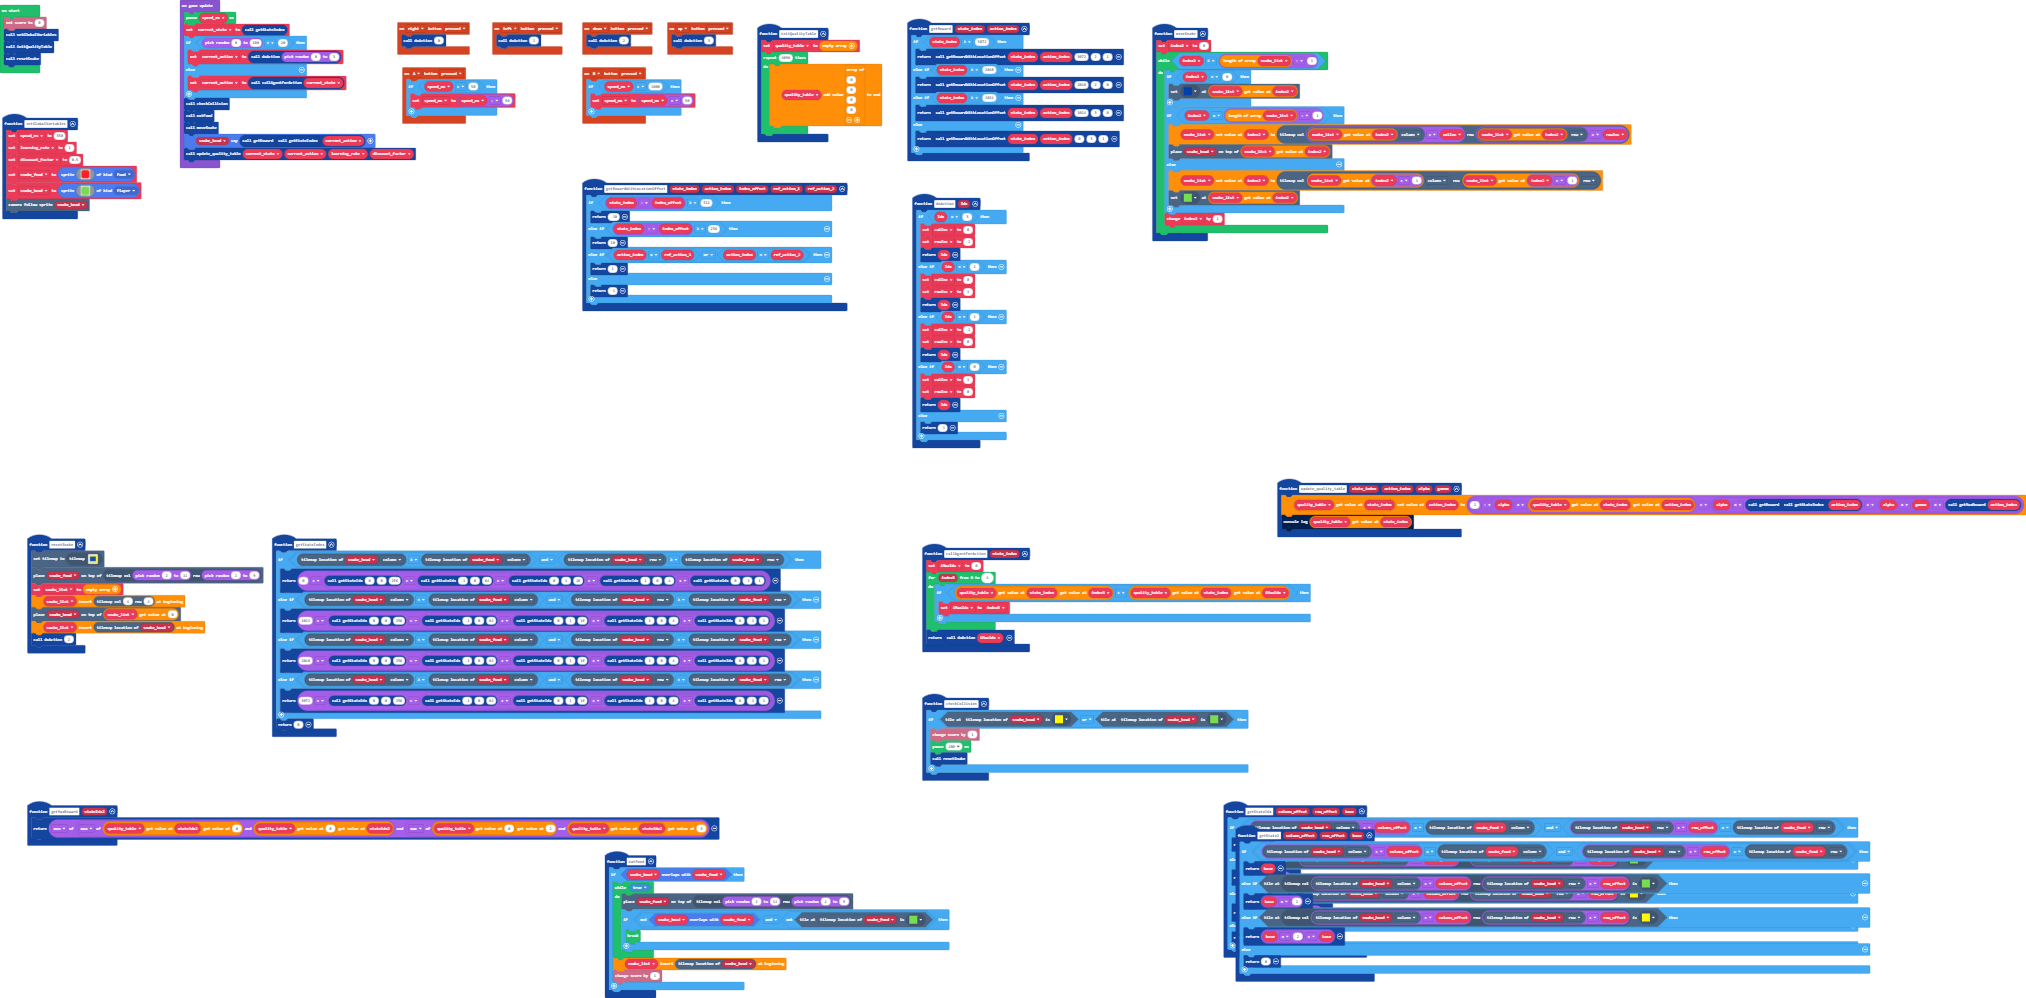
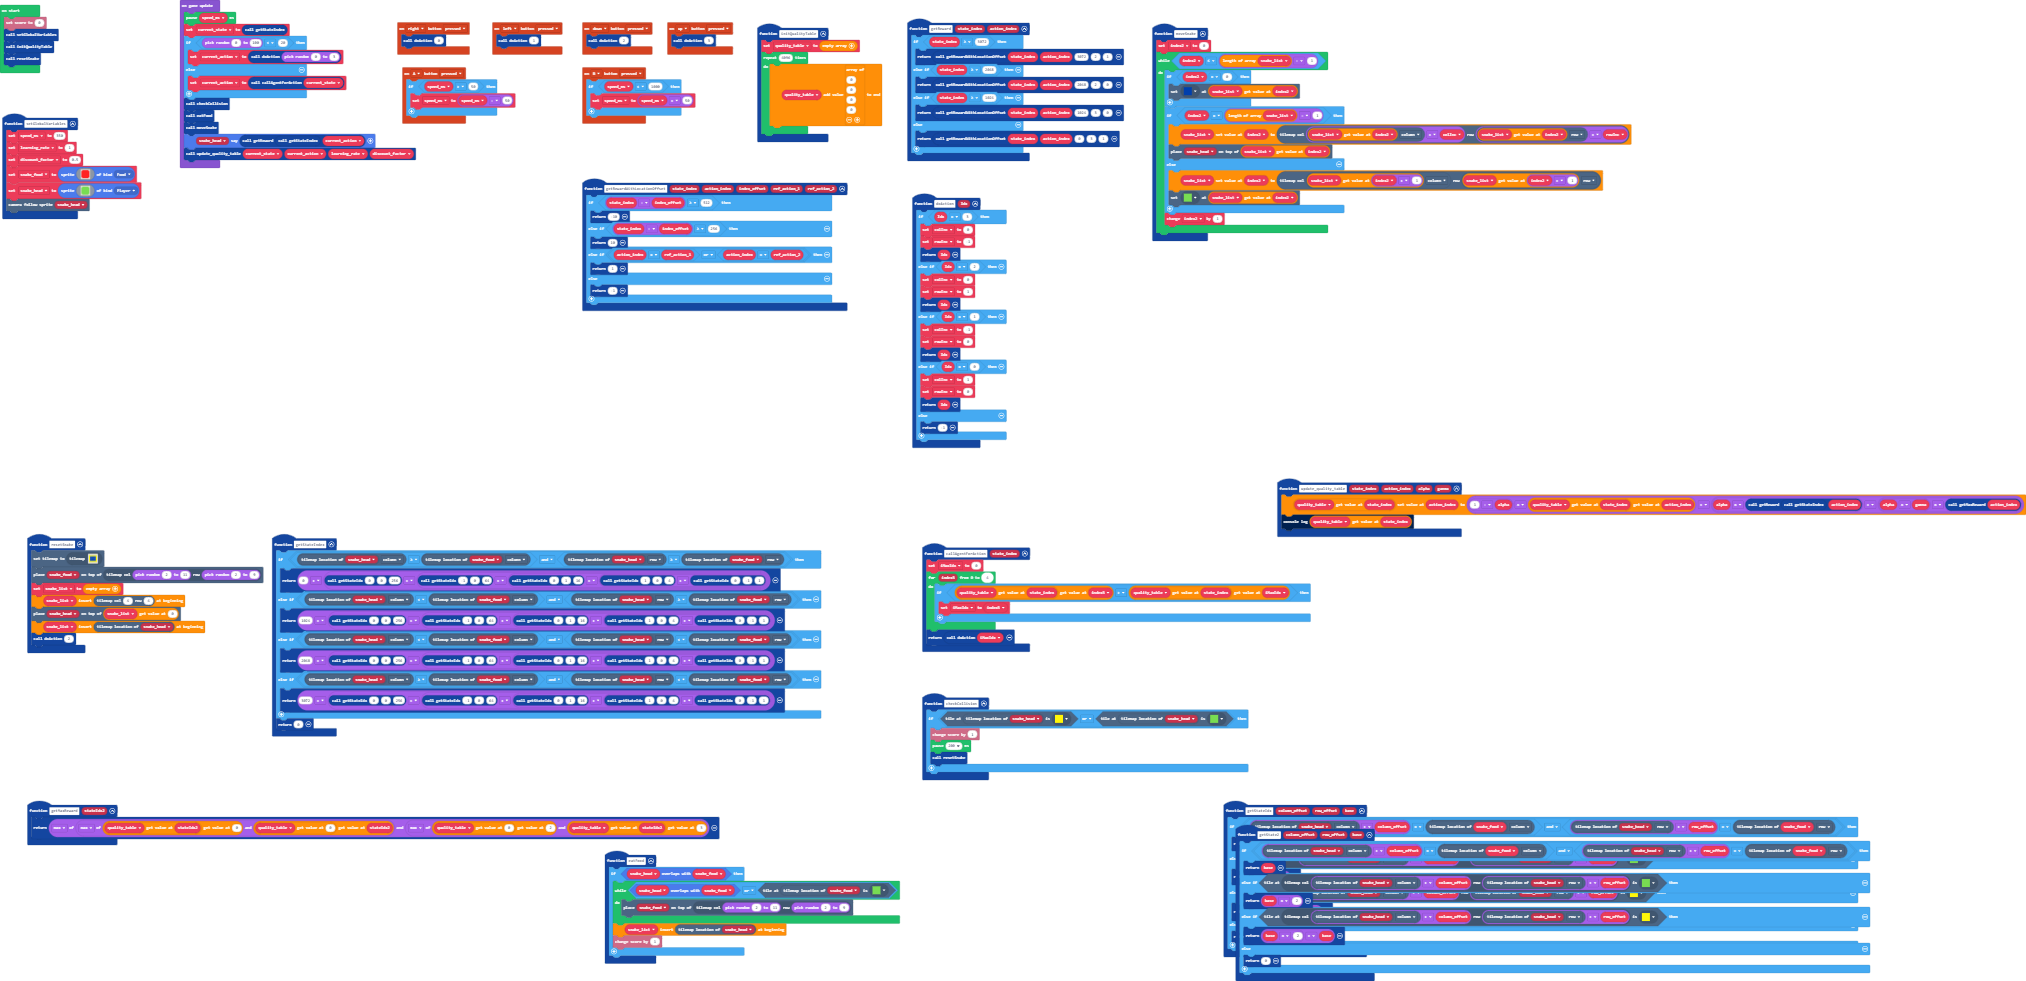
Simplified "eatFood"

diff --git a/main.ts b/main.ts
@@ -91,11 +91,8 @@ function setGlobalVariables () {
 }
 function eatFood () {
     if (snake_head.overlapsWith(snake_food)) {
-        while (true) {
+        while (snake_head.overlapsWith(snake_food) || tiles.tileAtLocationEquals(snake_food.tilemapLocation(), assets.tile`myTile`)) {
             tiles.placeOnTile(snake_food, tiles.getTileLocation(randint(2, 11), randint(2, 9)))
-            if (!(snake_head.overlapsWith(snake_food)) && !(tiles.tileAtLocationEquals(snake_food.tilemapLocation(), assets.tile`myTile`))) {
-                break;
-            }
         }
         snake_list.unshift(snake_head.tilemapLocation())
         info.changeScoreBy(1)

diff --git a/main.py b/main.py
@@ -26,16 +26,6 @@ def on_b_pressed():
         speed_ms = speed_ms + 50
 controller.B.on_event(ControllerButtonEvent.PRESSED, on_b_pressed)
 
-def get_reward(state_index: number, action_index: number):
-    if state_index >= 3072:
-        return get_reward_with_location_offset(state_index, action_index, 3072, 2, 1)
-    elif state_index >= 2048:
-        return get_reward_with_location_offset(state_index, action_index, 2048, 2, 0)
-    elif state_index >= 1024:
-        return get_reward_with_location_offset(state_index, action_index, 1024, 3, 0)
-    else:
-        return get_reward_with_location_offset(state_index, action_index, 0, 3, 1)
-
 def on_a_pressed():
     global speed_ms
     if speed_ms > 50:
@@ -47,24 +37,15 @@ def initQualityTable():
     quality_table = []
     for index in range(4096):
         quality_table.append([0, 0, 0, 0])
-def move_snake():
-    global index2
-    index2 = 0
-    while index2 <= len(snake_list) - 1:
-        if index2 == 0:
-            tiles.set_tile_at(snake_list[index2], assets.tile("""
-                myTile0
-            """))
-        if index2 == len(snake_list) - 1:
-            snake_list[index2] = tiles.get_tile_location(snake_list[index2].column + colInc,
-                snake_list[index2].row + rowInc)
-            tiles.place_on_tile(snake_head, snake_list[index2])
-        else:
-            snake_list[index2] = tiles.get_tile_location(snake_list[index2 + 1].column, snake_list[index2 + 1].row)
-            tiles.set_tile_at(snake_list[index2], assets.tile("""
-                myTile
-            """))
-        index2 += 1
+def getReward(state_index: number, action_index: number):
+    if state_index >= 3072:
+        return getRewardWithLocationOffset(state_index, action_index, 3072, 2, 1)
+    elif state_index >= 2048:
+        return getRewardWithLocationOffset(state_index, action_index, 2048, 2, 0)
+    elif state_index >= 1024:
+        return getRewardWithLocationOffset(state_index, action_index, 1024, 3, 0)
+    else:
+        return getRewardWithLocationOffset(state_index, action_index, 0, 3, 1)
 
 def on_left_pressed():
     doAction(1)
@@ -114,20 +95,23 @@ def setGlobalVariables():
         """),
         SpriteKind.player)
     scene.camera_follow_sprite(snake_head)
-def apply_Q_action(StateIdx: number):
-    global iMaxIdx
-    iMaxIdx = 0
-    for index3 in range(5):
-        if quality_table[StateIdx][index3] > quality_table[StateIdx][iMaxIdx]:
-            iMaxIdx = index3
-    return doAction(iMaxIdx)
+def eatFood():
+    if snake_head.overlaps_with(snake_food):
+        while snake_head.overlaps_with(snake_food) or tiles.tile_at_location_equals(snake_food.tilemap_location(),
+            assets.tile("""
+                myTile
+            """)):
+            tiles.place_on_tile(snake_food,
+                tiles.get_tile_location(randint(2, 11), randint(2, 9)))
+        snake_list.unshift(snake_head.tilemap_location())
+        info.change_score_by(1)
 
 def on_right_pressed():
     doAction(0)
 controller.right.on_event(ControllerButtonEvent.PRESSED, on_right_pressed)
 
 def update_quality_table(state_index2: number, action_index2: number, alpha: number, gamma: number):
-    quality_table[state_index2][action_index2] = (1 - alpha) * quality_table[state_index2][action_index2] + (alpha * get_reward(getStateIndex(), action_index2) + alpha * gamma * getMaxReward(action_index2))
+    quality_table[state_index2][action_index2] = (1 - alpha) * quality_table[state_index2][action_index2] + (alpha * getReward(getStateIndex(), action_index2) + alpha * gamma * getMaxReward(action_index2))
     print(quality_table[state_index2])
 def getStateIndex():
     if snake_head.tilemap_location().column >= snake_food.tilemap_location().column and snake_head.tilemap_location().row >= snake_food.tilemap_location().row:
@@ -139,6 +123,24 @@ def getStateIndex():
     elif snake_head.tilemap_location().column >= snake_food.tilemap_location().column and snake_head.tilemap_location().row < snake_food.tilemap_location().row:
         return 3072 + (getStateIdx(0, 0, 256) + (getStateIdx(-1, 0, 64) + (getStateIdx(0, 1, 16) + (getStateIdx(1, 0, 4) + getStateIdx(0, -1, 1)))))
     return 0
+def moveSnake():
+    global index2
+    index2 = 0
+    while index2 <= len(snake_list) - 1:
+        if index2 == 0:
+            tiles.set_tile_at(snake_list[index2], assets.tile("""
+                myTile0
+            """))
+        if index2 == len(snake_list) - 1:
+            snake_list[index2] = tiles.get_tile_location(snake_list[index2].column + colInc,
+                snake_list[index2].row + rowInc)
+            tiles.place_on_tile(snake_head, snake_list[index2])
+        else:
+            snake_list[index2] = tiles.get_tile_location(snake_list[index2 + 1].column, snake_list[index2 + 1].row)
+            tiles.set_tile_at(snake_list[index2], assets.tile("""
+                myTile
+            """))
+        index2 += 1
 def resetSnake():
     global snake_list
     tiles.set_current_tilemap(tilemap("""
@@ -151,6 +153,25 @@ def resetSnake():
     tiles.place_on_tile(snake_head, snake_list[0])
     snake_list.unshift(snake_head.tilemap_location())
     doAction(2)
+def getRewardWithLocationOffset(state_index3: number, action_index3: number, index_offset: number, ref_action_1: number, ref_action_2: number):
+    if state_index3 - index_offset >= 512:
+        return -10
+    elif state_index3 - index_offset >= 256:
+        return 10
+    elif action_index3 == ref_action_1 or action_index3 == ref_action_2:
+        return 1
+    else:
+        return -1
+def checkCollision():
+    if tiles.tile_at_location_equals(snake_head.tilemap_location(), assets.tile("""
+        Wall
+    """)) or tiles.tile_at_location_equals(snake_head.tilemap_location(),
+        assets.tile("""
+            myTile
+        """)):
+        info.change_score_by(1)
+        pause(200)
+        resetSnake()
 
 def on_down_pressed():
     doAction(2)
@@ -176,15 +197,6 @@ def getStateIdx(column_offset2: number, row_offset2: number, base2: number):
 def getMaxReward(stateIdx2: number):
     return max(max(quality_table[stateIdx2][0], quality_table[0][stateIdx2]),
         max(quality_table[0][2], quality_table[stateIdx2][3]))
-def get_reward_with_location_offset(state_index3: number, action_index3: number, index_offset: number, ref_action_1: number, ref_action_2: number):
-    if state_index3 - index_offset >= 512:
-        return -10
-    elif state_index3 - index_offset >= 256:
-        return 10
-    elif action_index3 == ref_action_1 or action_index3 == ref_action_2:
-        return 1
-    else:
-        return -1
 def doAction(Idx: number):
     global colInc, rowInc
     if Idx == 3:
@@ -205,37 +217,22 @@ def doAction(Idx: number):
         return Idx
     else:
         return -1
-def eat_food():
-    if snake_head.overlaps_with(snake_food):
-        while True:
-            tiles.place_on_tile(snake_food,
-                tiles.get_tile_location(randint(2, 11), randint(2, 9)))
-            if not (snake_head.overlaps_with(snake_food)) and not (tiles.tile_at_location_equals(snake_food.tilemap_location(),
-                assets.tile("""
-                    myTile
-                """))):
-                break
-        snake_list.unshift(snake_head.tilemap_location())
-        info.change_score_by(1)
-def check_collision():
-    if tiles.tile_at_location_equals(snake_head.tilemap_location(), assets.tile("""
-        Wall
-    """)) or tiles.tile_at_location_equals(snake_head.tilemap_location(),
-        assets.tile("""
-            myTile
-        """)):
-        info.change_score_by(1)
-        pause(200)
-        resetSnake()
+def callAgentForAction(state_index4: number):
+    global iMaxIdx
+    iMaxIdx = 0
+    for index3 in range(5):
+        if quality_table[state_index4][index3] > quality_table[state_index4][iMaxIdx]:
+            iMaxIdx = index3
+    return doAction(iMaxIdx)
 current_action = 0
 current_state = 0
 iMaxIdx = 0
-discount_factor = 0
-learning_rate = 0
 rowInc = 0
 colInc = 0
-snake_list: List[tiles.Location] = []
 index2 = 0
+snake_list: List[tiles.Location] = []
+discount_factor = 0
+learning_rate = 0
 quality_table: List[List[number]] = []
 speed_ms = 0
 snake_food: Sprite = None
@@ -252,11 +249,11 @@ def on_on_update():
     if randint(0, 100) < 20:
         current_action = doAction(randint(0, 3))
     else:
-        current_action = apply_Q_action(current_state)
-    check_collision()
-    eat_food()
-    move_snake()
-    snake_head.say_text(get_reward(getStateIndex(), current_action))
+        current_action = callAgentForAction(current_state)
+    checkCollision()
+    eatFood()
+    moveSnake()
+    snake_head.say_text(getReward(getStateIndex(), current_action))
     update_quality_table(current_state,
         current_action,
         learning_rate,
